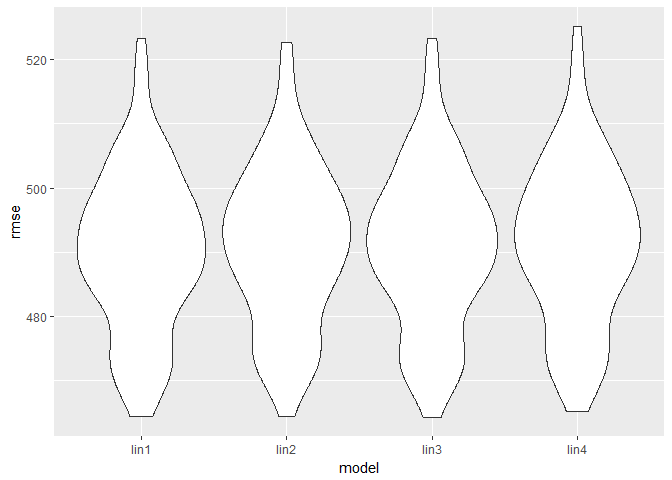
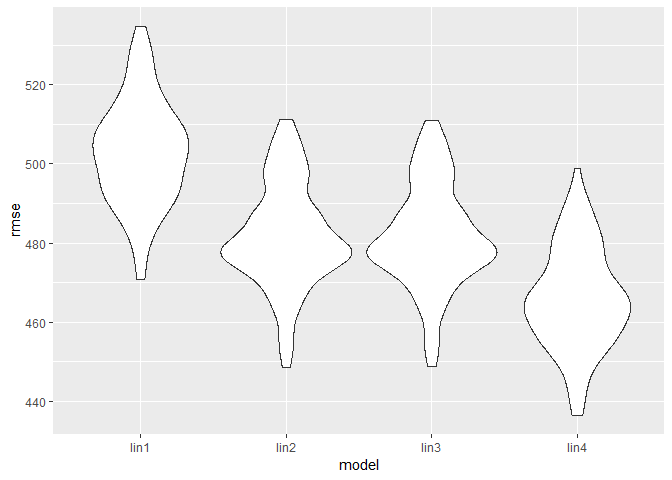
changed proposed models. minor text edits

diff --git a/hw6.md b/hw6.md
@@ -22,7 +22,7 @@ library(tidyverse)
 
     ## -- Attaching packages ------------------------------------------------------------ tidyverse 1.2.1 --
 
-    ## v ggplot2 2.2.1     v purrr   0.2.5
+    ## v ggplot2 3.1.0     v purrr   0.2.5
     ## v tibble  1.4.2     v dplyr   0.7.6
     ## v tidyr   0.8.1     v stringr 1.3.1
     ## v readr   1.1.1     v forcats 0.3.0
@@ -51,7 +51,7 @@ library(mgcv)
 ### Load and tidy data
 
 ``` r
-homicides_df = read_csv(file = "./data/data-homicides-master/homicide-data.csv")
+homicides_df = read_csv(file = "./data/data-homicides-master/homicide-data.csv", na = c("", "NA", "Unknown"))
 ```
 
     ## Parsed with column specification:
@@ -61,7 +61,7 @@ homicides_df = read_csv(file = "./data/data-homicides-master/homicide-data.csv")
     ##   victim_last = col_character(),
     ##   victim_first = col_character(),
     ##   victim_race = col_character(),
-    ##   victim_age = col_character(),
+    ##   victim_age = col_integer(),
     ##   victim_sex = col_character(),
     ##   city = col_character(),
     ##   state = col_character(),
@@ -84,10 +84,7 @@ homicides_df = homicides_df %>%
     disposition %in% c("Closed without arrest", "Open/No arrest"), "unresolved", "resolved")))
 ```
 
-    ## Warning in evalq(as.numeric(victim_age), <environment>): NAs introduced by
-    ## coercion
-
-After importing the data, I created a city\_state variable. I excluded cities that have errors or do not report race. I converted age to numeric and removed NA age rows. I filtered out unknown race and recoded race as white or non-white, with white as the reference group. I removed unknown race because if the race is unknown, we cannot know if race is white or non-white. I recoded the disposition variavle as solved or unsolved.
+After importing the data, I created a city\_state variable. I excluded cities that have errors or do not report race. I converted age to numeric and removed NA age rows. I filtered out unknown race and recoded race as white or non-white, with white as the reference group. I removed unknown race because if the race is unknown, we cannot know if race is white or non-white. I recoded the disposition variavle as unresolved or resolved.
 
 ### Baltimore model
 
@@ -97,7 +94,7 @@ baltimore_fit = homicides_df %>%
   glm(resolution ~ victim_age + victim_race + victim_sex, data = ., family = binomial())
 ```
 
-The above code saves a logistic regression to baltimore\_glm. The model uses victim age, race, and sex to predict whether the case is resolved or unresolved.
+The above code saves a logistic regression to baltimore\_glm. The model uses victim age, race, and sex to predict whether the case is unresolved.
 
 ``` r
 baltimore_fit %>% broom::tidy(conf.int = TRUE) %>% 
@@ -113,7 +110,7 @@ baltimore_fit %>% broom::tidy(conf.int = TRUE) %>%
 |:----------------------|-----:|---------:|----------:|
 | victim\_racenon-white |  2.27|     1.614|      3.203|
 
-The above table shows the estimate and confidence interval of the odds ratio for resolved vs unresolved homicides predicted by race, controling for age and sex.
+The above table shows the estimate and confidence interval of the odds ratio for resolved vs unresolved homicides predicted by race, controling for age and sex. We can see that non-white victims are 2.27 times as likely as white victims to have their case unresolved.
 
 ### Models for all cities
 
@@ -135,53 +132,53 @@ homicides_models %>% knitr::kable(digits = 3)
 
 | city\_state        | term                  |     OR|  conf.low|  conf.high|
 |:-------------------|:----------------------|------:|---------:|----------:|
-| Albuquerque, NM    | victim\_racenon-white |  1.349|     0.823|      2.225|
+| Albuquerque, NM    | victim\_racenon-white |  1.353|     0.820|      2.248|
 | Atlanta, GA        | victim\_racenon-white |  1.328|     0.770|      2.356|
 | Baltimore, MD      | victim\_racenon-white |  2.270|     1.614|      3.203|
 | Baton Rouge, LA    | victim\_racenon-white |  1.498|     0.712|      3.285|
 | Birmingham, AL     | victim\_racenon-white |  0.962|     0.570|      1.635|
-| Boston, MA         | victim\_racenon-white |  8.730|     3.868|     23.525|
-| Buffalo, NY        | victim\_racenon-white |  2.565|     1.409|      4.761|
+| Boston, MA         | victim\_racenon-white |  7.895|     3.504|     21.193|
+| Buffalo, NY        | victim\_racenon-white |  2.549|     1.400|      4.733|
 | Charlotte, NC      | victim\_racenon-white |  1.794|     1.052|      3.194|
 | Chicago, IL        | victim\_racenon-white |  1.779|     1.362|      2.316|
 | Cincinnati, OH     | victim\_racenon-white |  3.141|     1.847|      5.558|
-| Columbus, OH       | victim\_racenon-white |  1.170|     0.867|      1.577|
+| Columbus, OH       | victim\_racenon-white |  1.162|     0.861|      1.567|
 | Denver, CO         | victim\_racenon-white |  1.661|     0.992|      2.796|
-| Detroit, MI        | victim\_racenon-white |  1.536|     1.150|      2.052|
+| Detroit, MI        | victim\_racenon-white |  1.535|     1.150|      2.051|
 | Durham, NC         | victim\_racenon-white |  0.997|     0.408|      2.562|
 | Fort Worth, TX     | victim\_racenon-white |  1.194|     0.791|      1.809|
-| Fresno, CA         | victim\_racenon-white |  2.233|     1.181|      4.498|
+| Fresno, CA         | victim\_racenon-white |  2.248|     1.189|      4.528|
 | Houston, TX        | victim\_racenon-white |  1.146|     0.918|      1.432|
 | Indianapolis, IN   | victim\_racenon-white |  1.982|     1.503|      2.626|
 | Jacksonville, FL   | victim\_racenon-white |  1.519|     1.160|      1.993|
-| Las Vegas, NV      | victim\_racenon-white |  1.324|     1.029|      1.708|
+| Las Vegas, NV      | victim\_racenon-white |  1.311|     1.019|      1.691|
 | Long Beach, CA     | victim\_racenon-white |  1.260|     0.623|      2.638|
 | Los Angeles, CA    | victim\_racenon-white |  1.502|     1.092|      2.078|
 | Louisville, KY     | victim\_racenon-white |  2.552|     1.695|      3.888|
-| Memphis, TN        | victim\_racenon-white |  1.278|     0.862|      1.926|
-| Miami, FL          | victim\_racenon-white |  1.735|     1.135|      2.651|
+| Memphis, TN        | victim\_racenon-white |  1.285|     0.866|      1.937|
+| Miami, FL          | victim\_racenon-white |  1.734|     1.129|      2.661|
 | Milwaukee, wI      | victim\_racenon-white |  1.581|     1.019|      2.511|
 | Minneapolis, MN    | victim\_racenon-white |  1.549|     0.831|      2.933|
-| Nashville, TN      | victim\_racenon-white |  1.113|     0.810|      1.534|
-| New Orleans, LA    | victim\_racenon-white |  2.146|     1.357|      3.400|
-| New York, NY       | victim\_racenon-white |  1.882|     1.012|      3.695|
+| Nashville, TN      | victim\_racenon-white |  1.108|     0.807|      1.528|
+| New Orleans, LA    | victim\_racenon-white |  2.142|     1.354|      3.393|
+| New York, NY       | victim\_racenon-white |  1.880|     1.011|      3.694|
 | Oakland, CA        | victim\_racenon-white |  4.695|     2.391|     10.109|
 | Oklahoma City, OK  | victim\_racenon-white |  1.468|     1.031|      2.096|
-| Omaha, NE          | victim\_racenon-white |  5.920|     3.356|     11.024|
+| Omaha, NE          | victim\_racenon-white |  5.879|     3.334|     10.944|
 | Philadelphia, PA   | victim\_racenon-white |  1.553|     1.176|      2.064|
 | Pittsburgh, PA     | victim\_racenon-white |  3.552|     2.061|      6.359|
 | Richmond, VA       | victim\_racenon-white |  2.235|     0.869|      6.933|
 | San Antonio, TX    | victim\_racenon-white |  1.451|     0.975|      2.181|
 | Sacramento, CA     | victim\_racenon-white |  1.281|     0.742|      2.256|
-| Savannah, GA       | victim\_racenon-white |  1.677|     0.795|      3.640|
+| Savannah, GA       | victim\_racenon-white |  1.653|     0.783|      3.586|
 | San Bernardino, CA | victim\_racenon-white |  1.136|     0.500|      2.540|
 | San Diego, CA      | victim\_racenon-white |  2.069|     1.285|      3.397|
 | San Francisco, CA  | victim\_racenon-white |  2.182|     1.391|      3.472|
 | St. Louis, MO      | victim\_racenon-white |  1.733|     1.222|      2.472|
 | Stockton, CA       | victim\_racenon-white |  2.662|     1.403|      5.172|
 | Tampa, FL          | victim\_racenon-white |  0.863|     0.436|      1.710|
-| Tulsa, OK          | victim\_racenon-white |  1.660|     1.142|      2.432|
-| Washington, DC     | victim\_racenon-white |  1.960|     1.011|      4.005|
+| Tulsa, OK          | victim\_racenon-white |  1.679|     1.155|      2.461|
+| Washington, DC     | victim\_racenon-white |  1.946|     1.003|      3.975|
 
 The above code uses a map function to run the model that we used with baltimore on each city\_state.
 
@@ -199,7 +196,7 @@ homicides_models %>%
       theme(axis.text.x = element_text(angle = 90, hjust = 1))
 ```
 
-![](hw6_files/figure-markdown_github/unnamed-chunk-1-1.png)
+![](hw6_files/figure-markdown_github/all%20cities%20plot-1.png)
 
 The above plot shows that Boston is the US city with the largest discrepancy in homicide resolutions between white and non-white victims. In Boston, non-white victim homicides are 8.7 times as likely to remain unresolved compared to white victim homicides.
 
@@ -259,83 +256,63 @@ From the code above we see that there is no missing data
 ### Propose model
 
 ``` r
-lin_mod1 = lm(bwt ~ delwt + mrace, data = birthweight_df)
-lin_mod2 = lm(bwt ~ delwt + frace, data = birthweight_df)
-lin_mod3 = lm(bwt ~ delwt + mrace + frace, data = birthweight_df)
-lin_mod4 = lm(bwt ~ delwt + mrace*frace, data = birthweight_df)
+lin_mod1 = lm(bwt ~ mheight, data = birthweight_df)
+lin_mod2 = lm(bwt ~ mheight + mrace, data = birthweight_df)
+lin_mod3 = lm(bwt ~ mheight + mrace + momage, data = birthweight_df)
+lin_mod4 = lm(bwt ~ mheight + mrace + momage + delwt, data = birthweight_df)
 
 broom::tidy(lin_mod1)
 ```
 
-    ## # A tibble: 5 x 5
+    ## # A tibble: 2 x 5
     ##   term        estimate std.error statistic  p.value
     ##   <chr>          <dbl>     <dbl>     <dbl>    <dbl>
-    ## 1 (Intercept)  2287.      48.1      47.5   0.      
-    ## 2 delwt           6.70     0.322    20.8   6.94e-92
-    ## 3 mrace2       -316.      14.7     -21.5   6.64e-98
-    ## 4 mrace3         18.5     72.1       0.256 7.98e- 1
-    ## 5 mrace4       -148.      31.7      -4.66  3.28e- 6
+    ## 1 (Intercept)    762.     183.        4.18 3.03e- 5
+    ## 2 mheight         37.0      2.87     12.9  2.18e-37
 
 ``` r
 broom::tidy(lin_mod2)
 ```
 
-    ## # A tibble: 6 x 5
+    ## # A tibble: 5 x 5
     ##   term        estimate std.error statistic  p.value
     ##   <chr>          <dbl>     <dbl>     <dbl>    <dbl>
-    ## 1 (Intercept)  2279.      47.9     47.6    0.      
-    ## 2 delwt           6.76     0.321   21.1    5.92e-94
-    ## 3 frace2       -317.      14.7    -21.5    6.35e-98
-    ## 4 frace3          3.50    69.7      0.0502 9.60e- 1
-    ## 5 frace4       -150.      31.4     -4.79   1.74e- 6
-    ## 6 frace8        -88.1    125.      -0.704  4.81e- 1
+    ## 1 (Intercept)   1178.     181.        6.49 9.46e-11
+    ## 2 mheight         32.7      2.84     11.5  2.43e-30
+    ## 3 mrace2        -301.      15.2     -19.8  2.72e-83
+    ## 4 mrace3         -77.9     74.3      -1.05 2.94e- 1
+    ## 5 mrace4        -120.      33.5      -3.59 3.38e- 4
 
 ``` r
 broom::tidy(lin_mod3)
 ```
 
-    ## # A tibble: 9 x 5
+    ## # A tibble: 6 x 5
     ##   term        estimate std.error statistic  p.value
     ##   <chr>          <dbl>     <dbl>     <dbl>    <dbl>
-    ## 1 (Intercept)  2284.      48.1      47.4   0.      
-    ## 2 delwt           6.73     0.322    20.9   1.43e-92
-    ## 3 mrace2       -158.      78.6      -2.01  4.46e- 2
-    ## 4 mrace3         52.6    123.        0.429 6.68e- 1
-    ## 5 mrace4        -69.7     76.8      -0.907 3.64e- 1
-    ## 6 frace2       -161.      78.7      -2.05  4.04e- 2
-    ## 7 frace3        -34.0    118.       -0.287 7.74e- 1
-    ## 8 frace4        -83.5     76.2      -1.10  2.73e- 1
-    ## 9 frace8        -58.9    126.       -0.466 6.42e- 1
+    ## 1 (Intercept)  1137.      184.        6.19 6.38e-10
+    ## 2 mheight        32.3       2.85     11.4  1.58e-29
+    ## 3 mrace2       -293.       16.2     -18.1  1.05e-70
+    ## 4 mrace3        -89.6      74.7      -1.20 2.30e- 1
+    ## 5 mrace4       -116.       33.7      -3.45 5.62e- 4
+    ## 6 momage          2.94      2.03      1.44 1.49e- 1
 
 ``` r
 broom::tidy(lin_mod4)
 ```
 
-    ## # A tibble: 20 x 5
-    ##    term          estimate std.error statistic  p.value
-    ##    <chr>            <dbl>     <dbl>     <dbl>    <dbl>
-    ##  1 (Intercept)    2282.      48.2     47.4    0.      
-    ##  2 delwt             6.75     0.322   21.0    6.50e-93
-    ##  3 mrace2         -273.     177.      -1.55   1.21e- 1
-    ##  4 mrace3         -333.     233.      -1.43   1.53e- 1
-    ##  5 mrace4         -103.     125.      -0.822  4.11e- 1
-    ##  6 frace2         -133.     117.      -1.14   2.54e- 1
-    ##  7 frace3         -173.     165.      -1.05   2.96e- 1
-    ##  8 frace4         -159.     121.      -1.31   1.90e- 1
-    ##  9 frace8         -167.     148.      -1.13   2.60e- 1
-    ## 10 mrace2:frace2    86.1    212.       0.407  6.84e- 1
-    ## 11 mrace3:frace2   145.     534.       0.272  7.86e- 1
-    ## 12 mrace4:frace2    16.7    289.       0.0576 9.54e- 1
-    ## 13 mrace2:frace3   280.     525.       0.533  5.94e- 1
-    ## 14 mrace3:frace3   561.     296.       1.90   5.80e- 2
-    ## 15 mrace4:frace3  -116.     510.      -0.227  8.20e- 1
-    ## 16 mrace2:frace4   171.     270.       0.632  5.27e- 1
-    ## 17 mrace3:frace4  1030.     535.       1.92   5.43e- 2
-    ## 18 mrace4:frace4   110.     176.       0.624  5.33e- 1
-    ## 19 mrace2:frace8   634.     354.       1.79   7.32e- 2
-    ## 20 mrace3:frace8   319.     542.       0.589  5.56e- 1
+    ## # A tibble: 7 x 5
+    ##   term         estimate std.error statistic  p.value
+    ##   <chr>           <dbl>     <dbl>     <dbl>    <dbl>
+    ## 1 (Intercept)  1610.      179.        8.97  4.34e-19
+    ## 2 mheight        11.6       3.00      3.87  1.12e- 4
+    ## 3 mrace2       -308.       15.6     -19.7   1.13e-82
+    ## 4 mrace3         20.4      72.5       0.281 7.79e- 1
+    ## 5 mrace4       -119.       32.5      -3.67  2.50e- 4
+    ## 6 momage          0.847     1.97      0.430 6.67e- 1
+    ## 7 delwt           6.14      0.351    17.5   3.28e-66
 
-I want to see how race of the parents affects birthweight. The above code creates 4 models, one with mother's race, one with father's race, one with both factors, and one with both factors and their interaction.
+I decided to examine models with maternal characteristics. I simply added a new maternal variable into each successive model.
 
 ``` r
 cv_df = 
@@ -347,10 +324,10 @@ The above code uses modelr to do 100 training/testing splits on the birthweight\
 ``` r
 cv_df = 
   cv_df %>% 
-  mutate(lin_mod1 = map(train, ~lm(bwt ~ mrace, data = .x)),
-         lin_mod2 = map(train, ~lm(bwt ~ frace, data = .x)),
-         lin_mod3 = map(train, ~lm(bwt ~ mrace + frace, data = .x)),
-         lin_mod4 = map(train, ~lm(bwt ~ mrace*frace, data = .x))) %>% 
+  mutate(lin_mod1 = map(train, ~lm(bwt ~ mheight, data = .x)),
+         lin_mod2 = map(train, ~lm(bwt ~ mheight + mrace, data = .x)),
+         lin_mod3 = map(train, ~lm(bwt ~ mheight + mrace + momage, data = .x)),
+         lin_mod4 = map(train, ~lm(bwt ~ mheight + mrace + momage + delwt, data = .x))) %>% 
   mutate(rmse_lin1 = map2_dbl(lin_mod1, test, ~rmse(model = .x, data = .y)),
          rmse_lin2 = map2_dbl(lin_mod2, test, ~rmse(model = .x, data = .y)),
          rmse_lin3 = map2_dbl(lin_mod3, test, ~rmse(model = .x, data = .y)),
@@ -370,25 +347,14 @@ cv_df %>%
 
 ![](hw6_files/figure-markdown_github/proposed%20model%20plot-1.png)
 
-From the above plots, we see that the full model with mother's race, father's race, and the interaction was the best model because on average, it produced the lowest RMSEs when run with 100 training datasets.
+From the above plots, we see that the full model with mother's height, race, age, and weight was the best model because on average, it produced the lowest RMSEs when run with 100 training datasets.
 
 ### Plot residuals and predictions
 
 ``` r
 resid = modelr::add_residuals(birthweight_df, lin_mod4)
-```
-
-    ## Warning in predict.lm(model, data): prediction from a rank-deficient fit
-    ## may be misleading
-
-``` r
 resid_and_pred = modelr::add_predictions(resid, lin_mod4)
-```
 
-    ## Warning in predict.lm(model, data): prediction from a rank-deficient fit
-    ## may be misleading
-
-``` r
 resid_and_pred %>% 
   ggplot(aes(x = pred, y = resid)) +
   geom_point() +
@@ -399,7 +365,7 @@ resid_and_pred %>%
     ) 
 ```
 
-![](hw6_files/figure-markdown_github/pred%20and%20resid%20plot-1.png) show a plot of model residuals against fitted values – use add\_predictions and add\_residuals in making this plot.
+![](hw6_files/figure-markdown_github/pred%20and%20resid%20plot-1.png) Above is a plot of the proposed model residuals against fitted values.
 
 ### Compare proposed model to Jeff's models
 
@@ -411,10 +377,12 @@ cv_df2 =
   cv_df2 %>% 
   mutate(lin_mod5 = map(train, ~lm(bwt ~ blength + gaweeks, data = .x)),
          lin_mod6 = map(train, ~lm(bwt ~ blength*bhead*babysex, data = .x)),
-         proposed_mod = map(train, ~lm(bwt ~ mrace*frace, data = .x))) %>% 
+         proposed_mod = map(train, ~lm(bwt ~ mheight + mrace + momage + delwt, data = .x)),
+         combined_mod = map(train, ~lm(bwt ~ blength*bhead*babysex + mheight + mrace + momage + delwt, data = .x))) %>% 
   mutate(rmse_mod5 = map2_dbl(lin_mod5, test, ~rmse(model = .x, data = .y)),
          rmse_mod6 = map2_dbl(lin_mod6, test, ~rmse(model = .x, data = .y)),
-         rmse_proposed = map2_dbl(proposed_mod, test, ~rmse(model = .x, data = .y)))
+         rmse_proposed = map2_dbl(proposed_mod, test, ~rmse(model = .x, data = .y)),
+         rmse_combined = map2_dbl(combined_mod, test, ~rmse(model = .x, data = .y)))
 
 cv_df2 %>% 
   select(starts_with("rmse")) %>% 
@@ -426,4 +394,4 @@ cv_df2 %>%
 
 ![](hw6_files/figure-markdown_github/compare%20to%20jeffs%20models-1.png)
 
-From the plot above we see that the best model has head circumference, length, sex, and all interactions (model 6).
+From the plot above we see that Jeff's best model with head circumference, length, sex, and all interactions (model 6) was better than my model (proposed model). However, when I combined my proposed model with Jeff's best model, the RMSE was lower than Jeff's best model (combined model).
